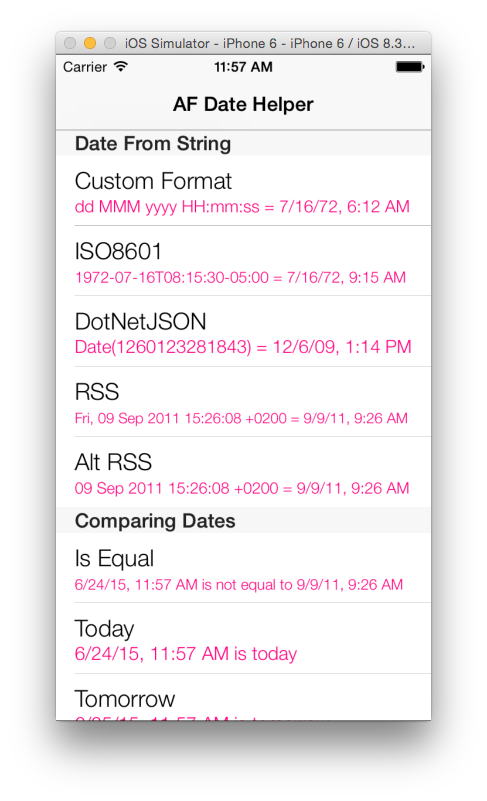
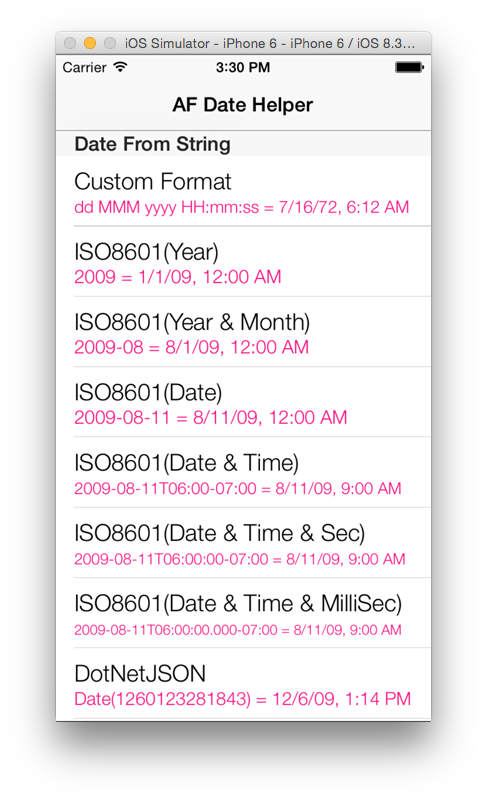
Updated ReadMe

diff --git a/AFDateHelper/AFDateExtension.swift b/AFDateHelper/AFDateExtension.swift
@@ -1,7 +1,7 @@
 //
 //  AFDateExtension.swift
 //
-//  Version 3.0.0
+//  Version 3.0.1
 //
 //  Created by Melvin Rivera on 7/15/14.
 //  Copyright (c) 2014. All rights reserved.

diff --git a/README.md b/README.md
@@ -17,8 +17,25 @@ To run the example project, clone or download the repo, and run.
 ```Swift
 // Date from String with custom format
 NSDate(fromString: "16 July 1972 6:12:00 ", format: .Custom("dd MMM yyyy HH:mm:ss")) -> NSDate
-// Date from ISO8601 String
-NSDate(fromString: "1972-07-16T08:15:30-05:00", format: .ISO8601) -> NSDate
+
+// Date from ISO8601(Year) String
+NSDate(fromString:  "2009", format: .ISO8601(nil))
+
+// Date from ISO8601(Year & Month) String
+NSDate(fromString:  "2009-08", format: .ISO8601(nil))
+
+// Date from ISO8601(Date) String
+NSDate(fromString:  "2009-08-11", format: .ISO8601(nil))
+
+// Date from ISO8601(Date & Time) String
+NSDate(fromString:  "2009-08-11T06:00-07:00", format: .ISO8601(nil))
+
+// Date from ISO8601(Date & Time & Sec) String
+NSDate(fromString:  "2009-08-11T06:00:00-07:00", format: .ISO8601(nil))
+
+// Date from ISO8601(Date & Time & MilliSec) String
+NSDate(fromString: "2009-08-11T06:00:00.000-07:00", format: .ISO8601(nil))
+
 // Date from DotNetJSON String
 NSDate(fromString: "/Date(1260123281843)/", format: .DotNet) -> NSDate
 // Date from RSS String
@@ -90,7 +107,12 @@ date.isWeekend() -> Int
 ```Swift
 date.toString() -> String
 date.toString(format: .Custom("dd MMM yyyy HH:mm:ss")) -> String
-date.toString(format: .ISO8601) -> String
+date.toString(format: .ISO8601(ISO8601Format.Year))
+date.toString(format: .ISO8601(ISO8601Format.YearMonth))
+date.toString(format: .ISO8601(ISO8601Format.Date))
+date.toString(format: .ISO8601(ISO8601Format.DateTime))
+date.toString(format: .ISO8601(ISO8601Format.DateTimeSec))
+date.toString(format: .ISO8601(ISO8601Format.DateTimeMilliSec))
 date.toString(format: .DotNet) -> String
 date.toString(format: .RSS) -> String
 date.toString(format: .AltRSS) -> String
